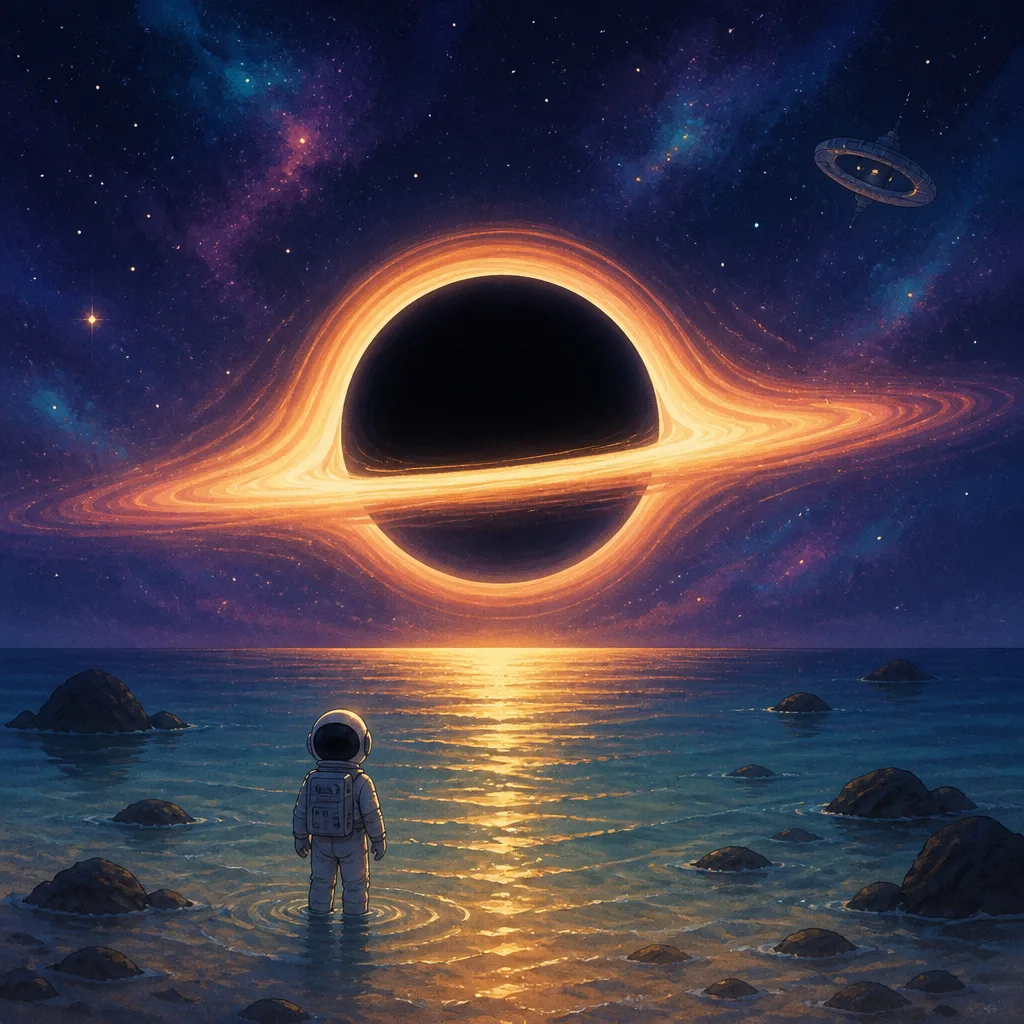
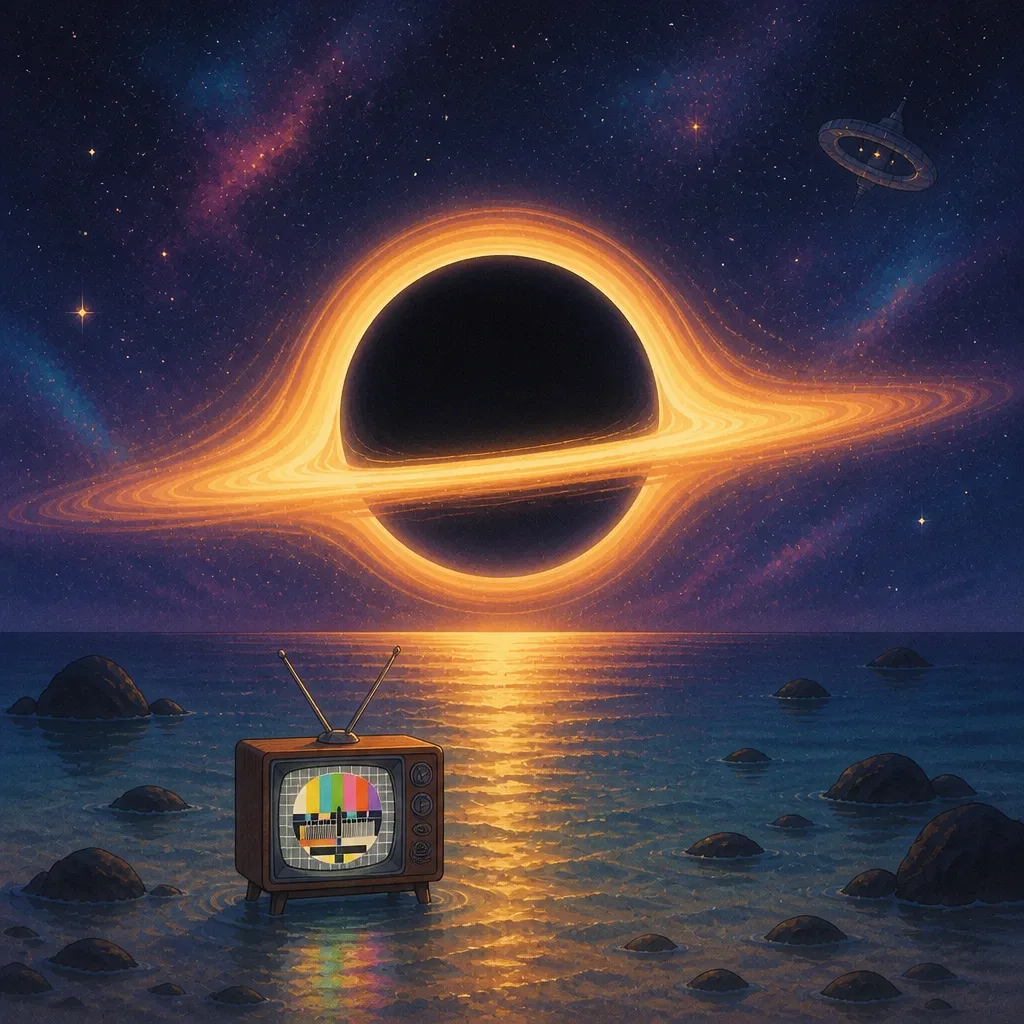
Interstream illustration: a retro TV with a test card instead of the astronaut
make-image.py gets an --edit option that changes the existing image to match the prompt.

diff --git a/index.html b/index.html
@@ -41,7 +41,7 @@
 				</div>
 			</li>
 			<li class="card">
-				<img class="card-art space" src="images/interstream.webp" alt="A tiny astronaut standing in the shallow sea of a distant planet, looking up at a glowing black hole" width="1024" height="1024" loading="lazy" />
+				<img class="card-art space" src="images/interstream.webp" alt="An old television with rabbit-ear antennas showing a colourful test card, standing in the shallow sea of a distant planet under a glowing black hole" width="1024" height="1024" loading="lazy" />
 				<div class="card-body">
 					<h3>inter<span class="stream">stream</span></h3>
 					<p>An Android IPTV player. Browse your channels, movies and series, and cast them to the big screen. <small>Only legal content accepted</small></p>

diff --git a/style.css b/style.css
@@ -192,7 +192,7 @@ h2 {
 }
 
 .card-art.space {
-	object-position: center 65%;
+	object-position: center 75%;
 }
 
 .card-body {

diff --git a/scripts/make-image.py b/scripts/make-image.py
@@ -1,7 +1,8 @@
 #!/usr/bin/env python3
 """Generate a page illustration with the OpenAI image API and save it as WebP.
 
-Usage: scripts/make-image.py <name> [--size 1024x1024]
+Usage: scripts/make-image.py <name> [--size 1024x1024] [--edit]
+With --edit, the current images/<name>.webp is sent along and changed to match the prompt.
 Reads OPENAI_API_KEY from the environment or from .env (never committed).
 The prompt lives in scripts/prompts/<name>.txt; the result goes to images/<name>.webp.
 """
@@ -25,17 +26,28 @@ p = argparse.ArgumentParser()
 p.add_argument('name')
 p.add_argument('--size', default='1024x1024')
 p.add_argument('--model', default='gpt-image-2')
+p.add_argument('--edit', action='store_true')
 args = p.parse_args()
 
 prompt = (root / 'scripts' / 'prompts' / f'{args.name}.txt').read_text()
-req = urllib.request.Request(
-	'https://api.openai.com/v1/images/generations',
-	data=json.dumps({'model': args.model, 'prompt': prompt, 'size': args.size, 'n': 1}).encode(),
-	headers={'Authorization': f'Bearer {api_key()}', 'Content-Type': 'application/json'},
-)
+out = root / 'images' / f'{args.name}.webp'
+fields = {'model': args.model, 'prompt': prompt, 'size': args.size, 'n': '1'}
+if args.edit:
+	png = io.BytesIO()
+	Image.open(out).save(png, 'PNG')
+	boundary = 'minhule-image-boundary'
+	body = b''
+	for k, v in fields.items():
+		body += f'--{boundary}\r\nContent-Disposition: form-data; name="{k}"\r\n\r\n{v}\r\n'.encode()
+	body += (f'--{boundary}\r\nContent-Disposition: form-data; name="image"; filename="{args.name}.png"\r\n'
+		'Content-Type: image/png\r\n\r\n').encode() + png.getvalue() + f'\r\n--{boundary}--\r\n'.encode()
+	url, content_type = 'https://api.openai.com/v1/images/edits', f'multipart/form-data; boundary={boundary}'
+else:
+	body = json.dumps({**fields, 'n': 1}).encode()
+	url, content_type = 'https://api.openai.com/v1/images/generations', 'application/json'
+req = urllib.request.Request(url, data=body, headers={'Authorization': f'Bearer {api_key()}', 'Content-Type': content_type})
 with urllib.request.urlopen(req, timeout=300) as r:
 	b64 = json.load(r)['data'][0]['b64_json']
 
-out = root / 'images' / f'{args.name}.webp'
 Image.open(io.BytesIO(base64.b64decode(b64))).convert('RGB').save(out, 'WEBP', quality=82)
 print(out)
